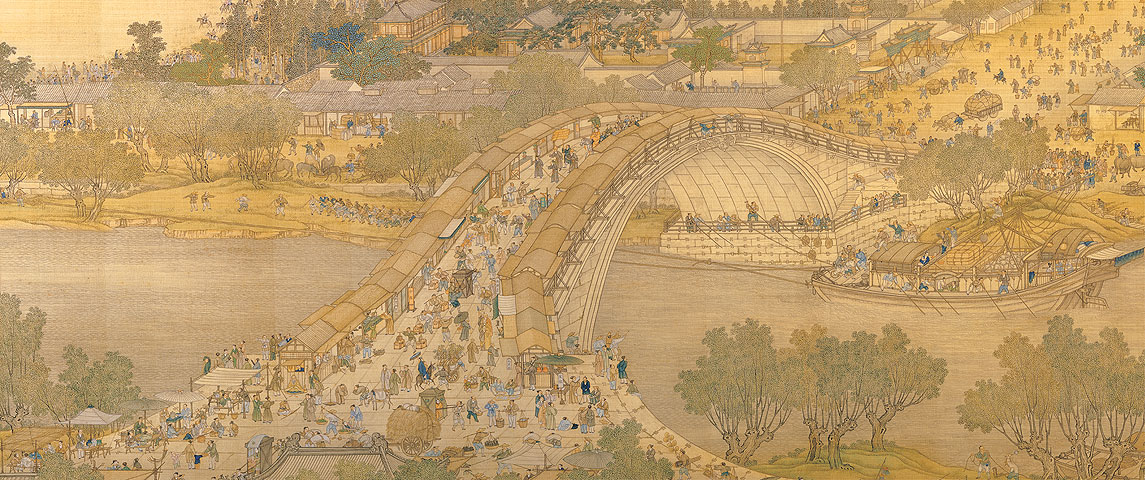
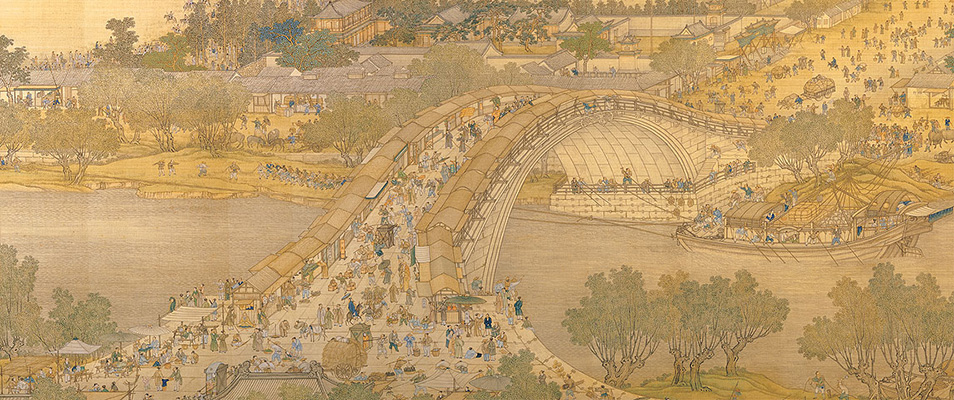
demo paint

Changed region(s): [[0.5472, 0.33, 0.5776, 0.39]]

diff --git a/asserts/styles/demo/paint.scss b/asserts/styles/demo/paint.scss
@@ -5,7 +5,7 @@
   .scroll-wapper{
     margin-top: 100px;
     position: relative;
-    width: 800px;
+    width: 955px;
     height: 400px;
     .scroll{
       position: absolute;
@@ -25,7 +25,7 @@
         @include transform(translateX(-100%));
         &.roll{
           box-shadow: 5px 0px 20px black;
-          background-position: 400px;
+          background-position: -460px;
           left:0;
         }
       }
@@ -34,7 +34,7 @@
         @include transform(translateX(100%));
         box-shadow: 5px 0px 20px black;
         &.roll{
-          background-position: -400px;
+          background-position: 460px;
           right:0;
         }
       }
@@ -58,7 +58,7 @@
         }
       }
       &.roll{
-        width: 800px;
+        width: 100%;
         left:0;
       }
     }
